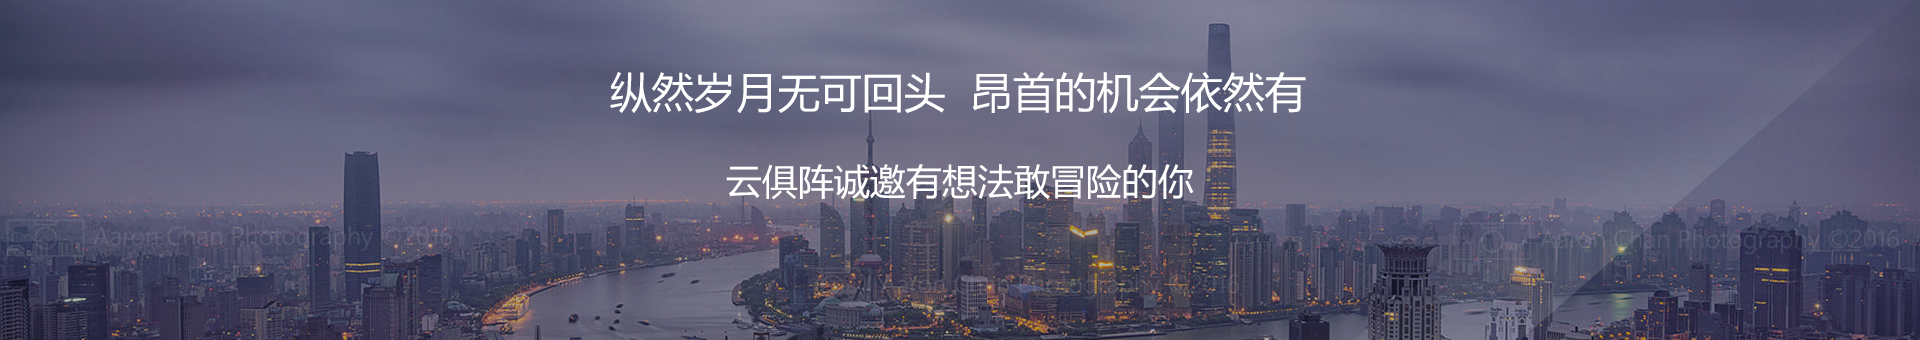
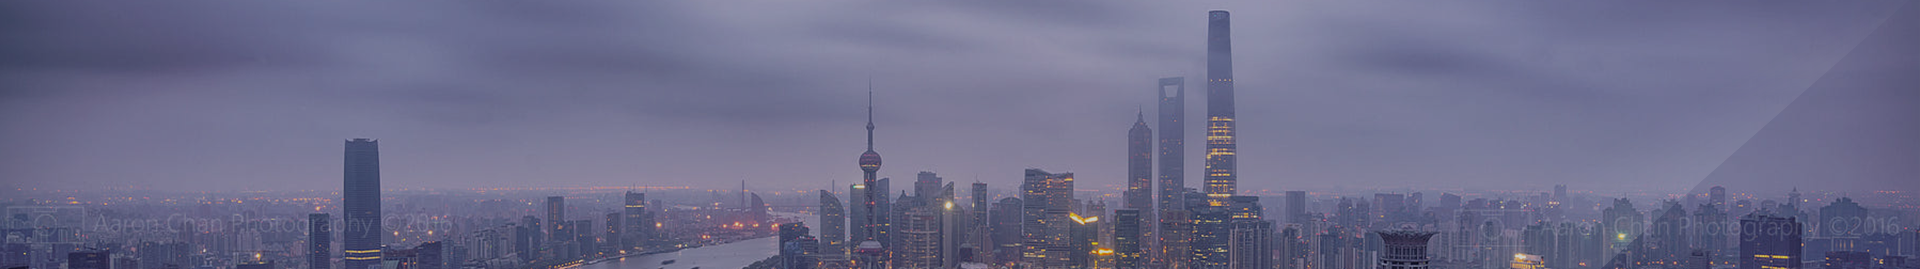
beta version commit

diff --git a/support.html b/support.html
@@ -8,6 +8,7 @@
     <!-- build:css css/combined.css -->
     <link rel="stylesheet" href="css/bootstrap-3.3.7-dist/css/bootstrap.css">
     <link rel="stylesheet" href="css/product-solution.css">
+    <link rel="shortcut icon" href="./image/favicon.ico">
     <script src="js/jquery.js"></script>
     <script src="js/common.js"></script>
     <script src="css/bootstrap-3.3.7-dist/js/bootstrap.js"></script>
@@ -53,13 +54,13 @@
         </div>
     </div>
     <div class="row" style="margin: 0 auto;">
-        <p>a)电话支持：24*7电话技术支持服务，021-80344930 转800</p>
-        <p>b)邮件支持：24*7接受邮件服务申请，Support@yunjuzhen.cn，8小时内给予回复。</p>
-        <p>c)电话回访：定期回访客户，配合客户对系统做常规检测，提前发现问题并给出专业的建议
-        <p>d)产品升级：享受购买软件产品服务期内的免费版本升级。</p>
-        <p>e)专家服务：指定技术专家负责，负责协调所有客户问题。</p>
-        <p>f)现场支持：提供服务期内不计次数的现场服务，根据客户需求，在下一工作日内赶赴现场（现场服务可包括实施服务、产品问题或环境兼容性问题的上门技术支持）。</p>
-        <p>g)紧急支持：提供业务紧急支持，根据客户需求，技术专家在一个工作日内赶赴客户现场，办事处所在城市4小时内赶赴现场。</p>
+        <p>a)&nbsp;电话支持：24*7电话技术支持服务，021-80344930 转805</p>
+        <p>b)&nbsp;邮件支持：24*7接受邮件服务申请，Support@yunjuzhen.cn，8小时内给予回复。</p>
+        <p>c)&nbsp;电话回访：定期回访客户，配合客户对系统做常规检测，提前发现问题并给出专业的建议
+        <p>d)&nbsp;产品升级：享受购买软件产品服务期内的免费版本升级。</p>
+        <p>e)&nbsp;专家服务：指定技术专家负责，负责协调所有客户问题。</p>
+        <p>f)&nbsp;现场支持：提供服务期内不计次数的现场服务，根据客户需求，在下一工作日内赶赴现场（现场服务可包括实施服务、产品问题或环境兼容性问题的上门技术支持）。</p>
+        <p>g)&nbsp;紧急支持：提供业务紧急支持，根据客户需求，技术专家在一个工作日内赶赴客户现场，办事处所在城市4小时内赶赴现场。</p>
     </div>
 </div>
 <footer>

diff --git a/index.html b/index.html
@@ -8,6 +8,7 @@
     <!-- build:css css/combined.css -->
     <link rel="stylesheet" href="css/bootstrap-3.3.7-dist/css/bootstrap.css">
     <link rel="stylesheet" href="css/info.css">
+    <link rel="shortcut icon" href="./image/favicon.ico">
     <script src="js/jquery.js"></script>
     <script src="js/common.js"></script>
     <script src="css/bootstrap-3.3.7-dist/js/bootstrap.js"></script>
@@ -102,8 +103,20 @@
 
 </div>
 
-<div class="row" style="margin-top: 70px">
-    <img src="./image/index-add.png">
+<div style="margin-top: 70px;background-image: url('./image/index-add.png');background-repeat:no-repeat;background-size: 100% 100%;
+  -moz-background-size: 100% 100%;-webkit-background-size: 100% 100%;height: 340px">
+    <!--<img src="./image/index-add.png">-->
+    <p>&nbsp;</p>
+    <p>&nbsp;</p>
+    <div>
+        <p><h2 style="color: #fff; text-align: center">纵然岁月无可回头 昂然的机会依然有</h2></p>
+        <p><h2 style="color: #fff; text-align: center">云俱阵诚邀有想法敢冒险的你</h2></p>
+    </div>
+    <p>&nbsp;</p>
+    <div style="text-align: center">
+        <button type="button" class="btn btn-primary" style="background:#0085f0;padding: 0 10px 0 10px" onclick="window.open('./contact.html')"><h4 style="font-size: 18px">&nbsp;&nbsp;加入云俱阵&nbsp;&nbsp;</h4> </button>
+    </div>
+
 </div>
 <footer>
     <div class="navbar-collapse navbar-index collapse" style="text-align: center;">

diff --git a/contact.html b/contact.html
@@ -8,6 +8,7 @@
     <!-- build:css css/combined.css -->
     <link rel="stylesheet" href="css/bootstrap-3.3.7-dist/css/bootstrap.css">
     <link rel="stylesheet" href="css/contact.css">
+    <link rel="shortcut icon" href="./image/favicon.ico">
     <script src="js/jquery.js"></script>
     <script src="js/common.js"></script>
     <script src="css/bootstrap-3.3.7-dist/js/bootstrap.js"></script>
@@ -43,6 +44,7 @@
         </div>
     </div>
 </nav>
+
 <div class="banner-content">
     <img src="./image/banner-contact.png" class="banner">
 </div>
@@ -56,7 +58,7 @@
     <div class="row">
         <div class="col-md-12 col-lg-6" style="line-height: 50px">
             <p>云俱阵（上海）信息科技有限公司</p>
-            <p>地址：上海浦东新区祖冲之路2305号B幢812室 20121</p>
+            <p>地址：上海浦东新区祖冲之路2305号B幢812室 201210</p>
             <p>Add: 2305 Zuchongzhi Road B-812, Pudong New District,Shanghai</p>
             <p>TEL：021-80344930</p>
             <p>Mobile：15900949719（葛经理）</p>
@@ -91,6 +93,7 @@
     </div>
 
 </div>
+
 <footer>
     <div class="navbar-collapse navbar-index collapse" style="text-align: center;">
         <ul class="nav navbar-nav" style="display: inline-block;float: none;height: 3rem">

diff --git a/customeCase.html b/customeCase.html
@@ -8,6 +8,7 @@
     <!-- build:css css/combined.css -->
     <link rel="stylesheet" href="css/bootstrap-3.3.7-dist/css/bootstrap.css">
     <link rel="stylesheet" href="css/info.css">
+    <link rel="shortcut icon" href="./image/favicon.ico">
     <script src="js/jquery.js"></script>
     <script src="js/common.js"></script>
     <script src="css/bootstrap-3.3.7-dist/js/bootstrap.js"></script>
@@ -89,7 +90,7 @@
             <li><a href="./contact.html" class="font-color">联系我们</a></li>
         </ul>
     </div>
-    <p>云俱阵 版权所有 ® 2017-2018</p>
+    <p>© 2017 CloudLogic 云俱阵（上海）信息科技有限公司保留所有权利</p>
 </footer>
 </body>
 </html>

diff --git a/recruitment.html b/recruitment.html
@@ -9,6 +9,7 @@
     <link rel="stylesheet" href="css/normalize.css">
     <link rel="stylesheet" href="css/main.css">
     <link rel="stylesheet" href="css/bootstrap-3.3.7-dist/css/bootstrap.css">
+    <link rel="shortcut icon" href="./image/favicon.ico">
     <script src="js/jquery.js"></script>
     <script src="css/bootstrap-3.3.7-dist/js/bootstrap.js"></script>
     <script src="./js/main.js"></script>

diff --git a/product.html b/product.html
@@ -8,6 +8,7 @@
     <!-- build:css css/combined.css -->
     <link rel="stylesheet" href="css/bootstrap-3.3.7-dist/css/bootstrap.css">
     <link rel="stylesheet" href="css/product-solution.css">
+    <link rel="shortcut icon" href="./image/favicon.ico">
     <script src="js/jquery.js"></script>
     <script src="js/common.js"></script>
     <script src="css/bootstrap-3.3.7-dist/js/bootstrap.js"></script>

diff --git a/solution.html b/solution.html
@@ -8,6 +8,7 @@
     <!-- build:css css/combined.css -->
     <link rel="stylesheet" href="css/bootstrap-3.3.7-dist/css/bootstrap.css">
     <link rel="stylesheet" href="css/product-solution.css">
+    <link rel="shortcut icon" href="./image/favicon.ico">
     <script src="js/jquery.js"></script>
     <script src="js/common.js"></script>
     <script src="css/bootstrap-3.3.7-dist/js/bootstrap.js"></script>

diff --git a/info.html b/info.html
@@ -8,6 +8,7 @@
     <!-- build:css css/combined.css -->
     <link rel="stylesheet" href="css/bootstrap-3.3.7-dist/css/bootstrap.css">
     <link rel="stylesheet" href="css/info.css">
+    <link rel="shortcut icon" href="./image/favicon.ico">
     <script src="js/jquery.js"></script>
     <script src="js/common.js"></script>
     <script src="css/bootstrap-3.3.7-dist/js/bootstrap.js"></script>

diff --git a/css/info.css b/css/info.css
@@ -207,7 +207,8 @@ header .top ul li a {
 
 footer {
     width: 100%;
-    padding: 0.5rem 0 0.5rem;
+    margin-right: 0px;
+    /*padding: 0.5rem 0 0.5rem;*/
     background-color: #2f2f2f;
 }
 
